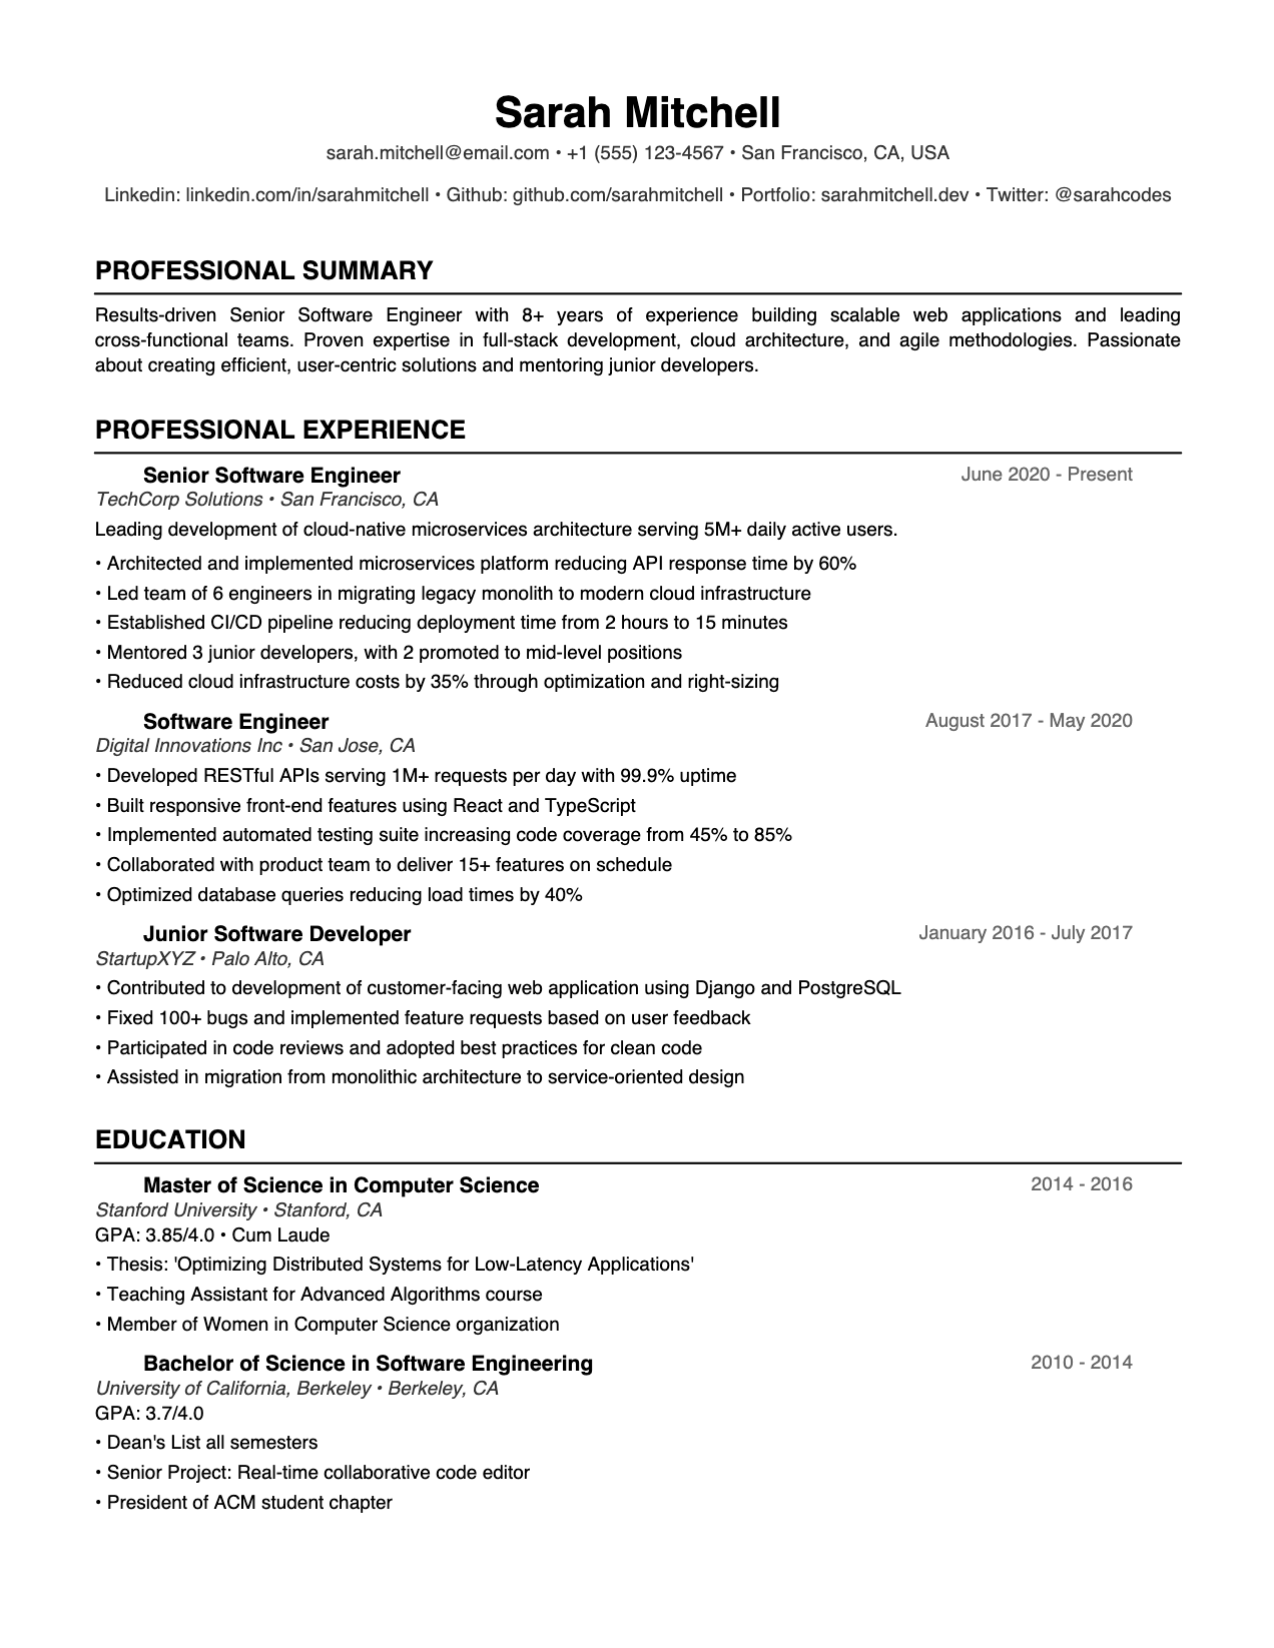
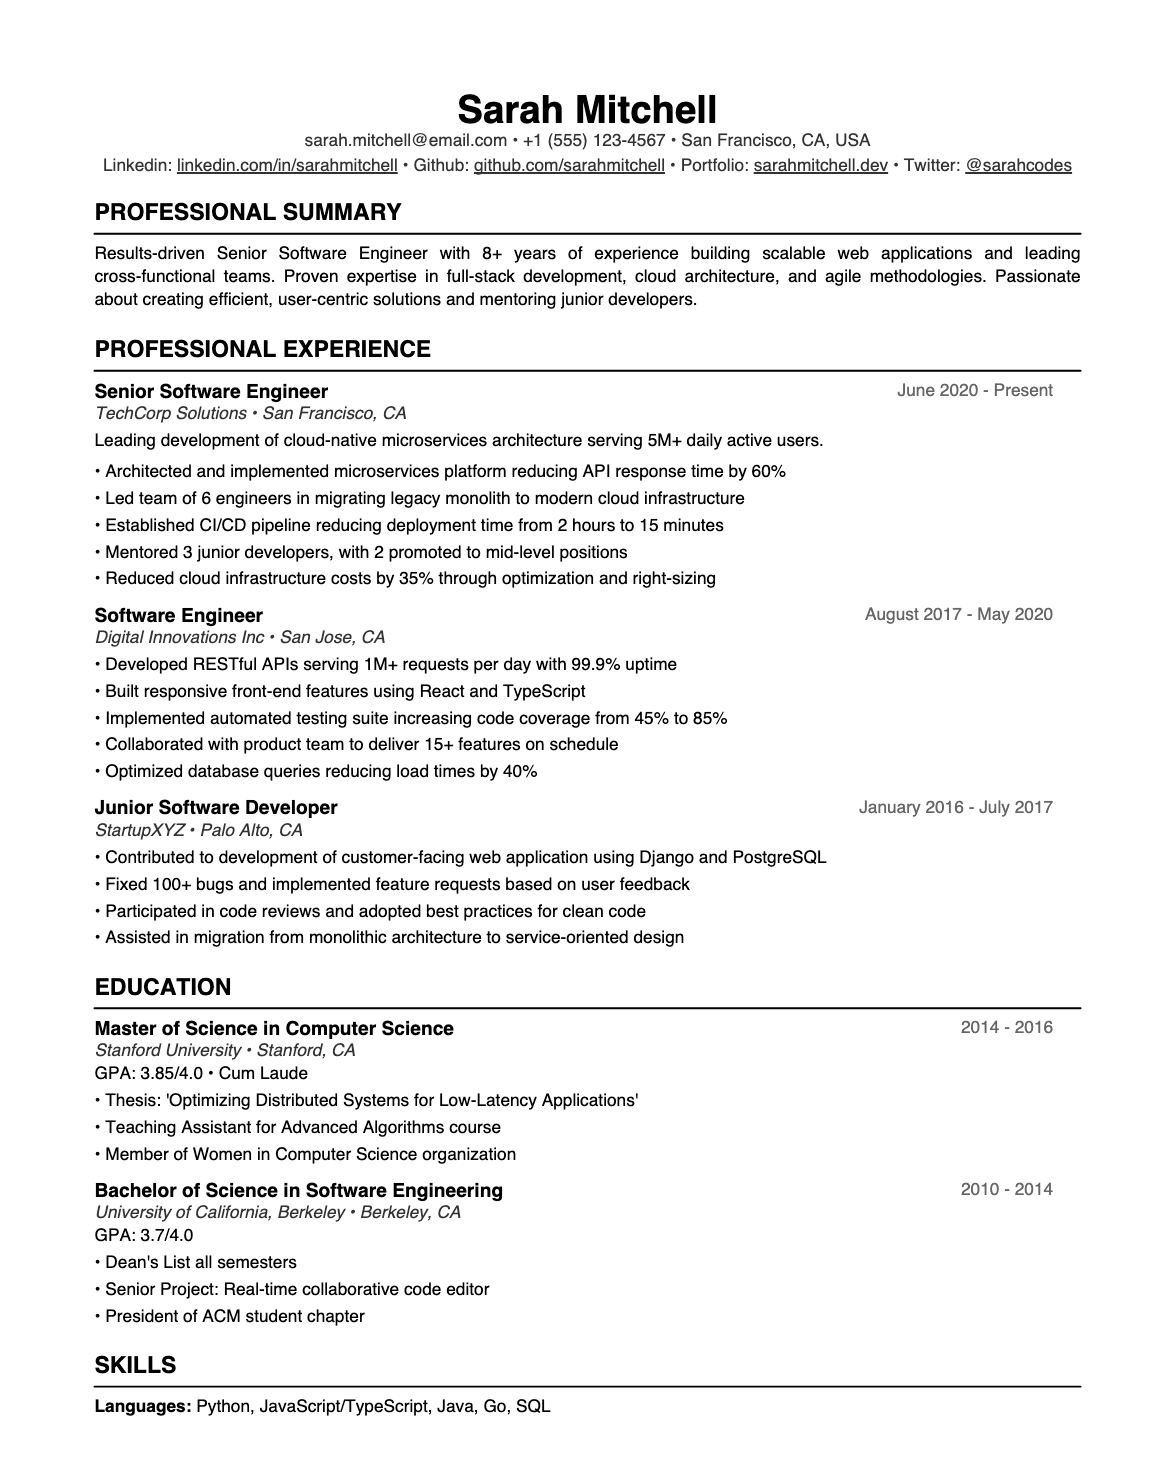
revised

diff --git a/resume_generator.py b/resume_generator.py
@@ -122,7 +122,7 @@ class ResumeGenerator:
             parent=styles['Heading1'],
             fontSize=self.config['name_size'],
             textColor=colors.HexColor('#000000'),
-            spaceAfter=4,
+            spaceAfter=1,
             alignment=TA_CENTER,
             fontName=font_bold
         ))
@@ -134,7 +134,7 @@ class ResumeGenerator:
             fontSize=self.config['body_size'],
             textColor=colors.HexColor('#333333'),
             alignment=TA_CENTER,
-            spaceAfter=4
+            spaceAfter=1
         ))
         
         # Section header style
@@ -144,7 +144,7 @@ class ResumeGenerator:
             fontSize=self.config['section_header_size'],
             textColor=colors.HexColor('#000000'),
             spaceAfter=4,
-            spaceBefore=8,
+            spaceBefore=4,
             fontName=font_bold,
             borderWidth=0,
             borderPadding=0,
@@ -304,7 +304,7 @@ class ResumeGenerator:
             for key, value in links.items():
                 if value:
                     # Create a simple text representation (not hyperlinked in black/white)
-                    link_parts.append(f"{key.title()}: {value}")
+                    link_parts.append(f'{key.title()}: <a href="{value}"><u>{value}</u></a>')
             
             if link_parts:
                 links_text = ' • '.join(link_parts)
@@ -359,7 +359,7 @@ class ResumeGenerator:
                 Paragraph(date_range, self.styles['DateRange'])
             ]]
             
-            title_table = Table(title_data, colWidths=[4.5*inch, 2*inch])
+            title_table = Table(title_data, colWidths=[self.doc_width * 0.7, self.doc_width * 0.25])
             title_table.setStyle(TableStyle([
                 ('VALIGN', (0, 0), (-1, -1), 'TOP'),
                 ('LEFTPADDING', (0, 0), (-1, -1), 0),
@@ -430,7 +430,7 @@ class ResumeGenerator:
                     Paragraph(date_range, self.styles['DateRange'])
                 ]]
                 
-                degree_table = Table(degree_data, colWidths=[4.5*inch, 2*inch])
+                degree_table = Table(degree_data, colWidths=[self.doc_width * 0.7, self.doc_width * 0.25])
                 degree_table.setStyle(TableStyle([
                     ('VALIGN', (0, 0), (-1, -1), 'TOP'),
                     ('LEFTPADDING', (0, 0), (-1, -1), 0),
@@ -507,7 +507,7 @@ class ResumeGenerator:
         if not projects:
             return
         
-        self._add_section_header('PROJECTS')
+        self._add_section_header('PROJECT HIGHLIGHTS')
         
         for i, project in enumerate(projects):
             if i > 0:
@@ -522,7 +522,7 @@ class ResumeGenerator:
                     Paragraph(date, self.styles['DateRange'])
                 ]]
                 
-                name_table = Table(name_data, colWidths=[4.5*inch, 2*inch])
+                name_table = Table(name_data, colWidths=[self.doc_width * 0.7, self.doc_width * 0.25])
                 name_table.setStyle(TableStyle([
                     ('VALIGN', (0, 0), (-1, -1), 'TOP'),
                     ('LEFTPADDING', (0, 0), (-1, -1), 0), 
@@ -582,7 +582,7 @@ class ResumeGenerator:
                     Paragraph(date, self.styles['DateRange'])
                 ]]
                 
-                cert_table = Table(cert_data, colWidths=[4.5*inch, 2*inch])
+                cert_table = Table(cert_data, colWidths=[self.doc_width * 0.7, self.doc_width * 0.25])
                 cert_table.setStyle(TableStyle([
                     ('VALIGN', (0, 0), (-1, -1), 'TOP'),
                     ('LEFTPADDING', (0, 0), (-1, -1), 0),
@@ -627,7 +627,7 @@ class ResumeGenerator:
                     Paragraph(date, self.styles['DateRange'])
                 ]]
                 
-                award_table = Table(award_data, colWidths=[4.5*inch, 2*inch])
+                award_table = Table(award_data, colWidths=[self.doc_width * 0.7, self.doc_width * 0.25])
                 award_table.setStyle(TableStyle([
                     ('VALIGN', (0, 0), (-1, -1), 'TOP'),
                     ('LEFTPADDING', (0, 0), (-1, -1), 0),
@@ -687,7 +687,8 @@ class ResumeGenerator:
                 self.story.append(Paragraph(f"<i>{venue_text}</i>", self.styles['ItemSubtitle']))
             
             if 'doi' in pub:
-                doi_text = f"DOI: {pub['doi']}"
+                doi = pub['doi']
+                doi_text = f'DOI: <a href="{doi}"><u>{doi}</u></a>'
                 self.story.append(Paragraph(doi_text, self.styles['ResumeBody']))
             
             self.story.append(Spacer(1, 0.04*inch))
@@ -754,7 +755,7 @@ class ResumeGenerator:
                     Paragraph(date_range, self.styles['DateRange'])
                 ]]
                 
-                role_table = Table(role_data, colWidths=[4.5*inch, 2*inch])
+                role_table = Table(role_data, colWidths=[self.doc_width * 0.7, self.doc_width * 0.25])
                 role_table.setStyle(TableStyle([
                     ('VALIGN', (0, 0), (-1, -1), 'TOP'),
                     ('LEFTPADDING', (0, 0), (-1, -1), 0),
@@ -800,6 +801,9 @@ class ResumeGenerator:
             topMargin=margin*inch,
             bottomMargin=margin*inch
         )
+
+        # store usable width for tables
+        self.doc_width = doc.width
         
         # Build header (always first)
         self._build_header()
@@ -828,7 +832,7 @@ class ResumeGenerator:
         # Add footer if configured (always last)
         if self.config['footer']:
             self.story.append(Spacer(1, 0.2*inch))
-            footer_text = "Resume Generator @ http://bit.ly/4a5hhCH @ Made by George Yuanji Wang"
+            footer_text = "YAML-Resume Generator @ http://bit.ly/4a5hhCH @ Made by George Yuanji Wang"
             self.story.append(Paragraph(footer_text, self.styles['Footer']))
         
         # Build the PDF
